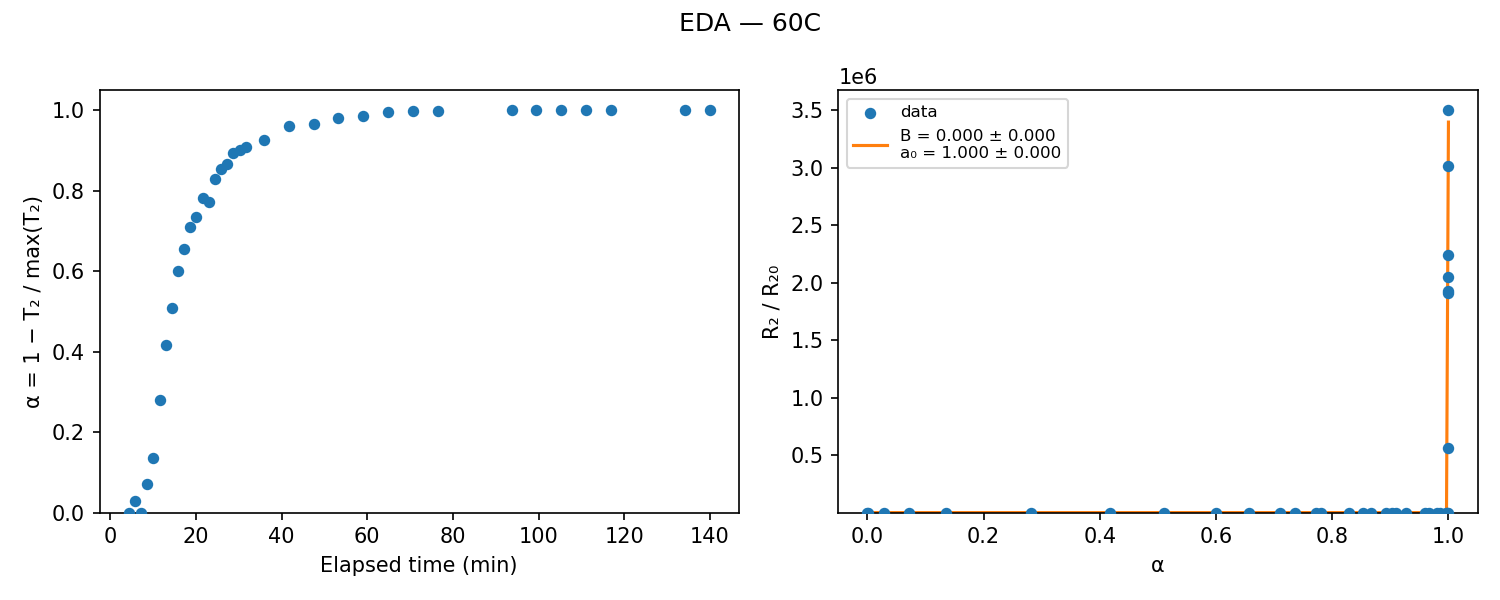
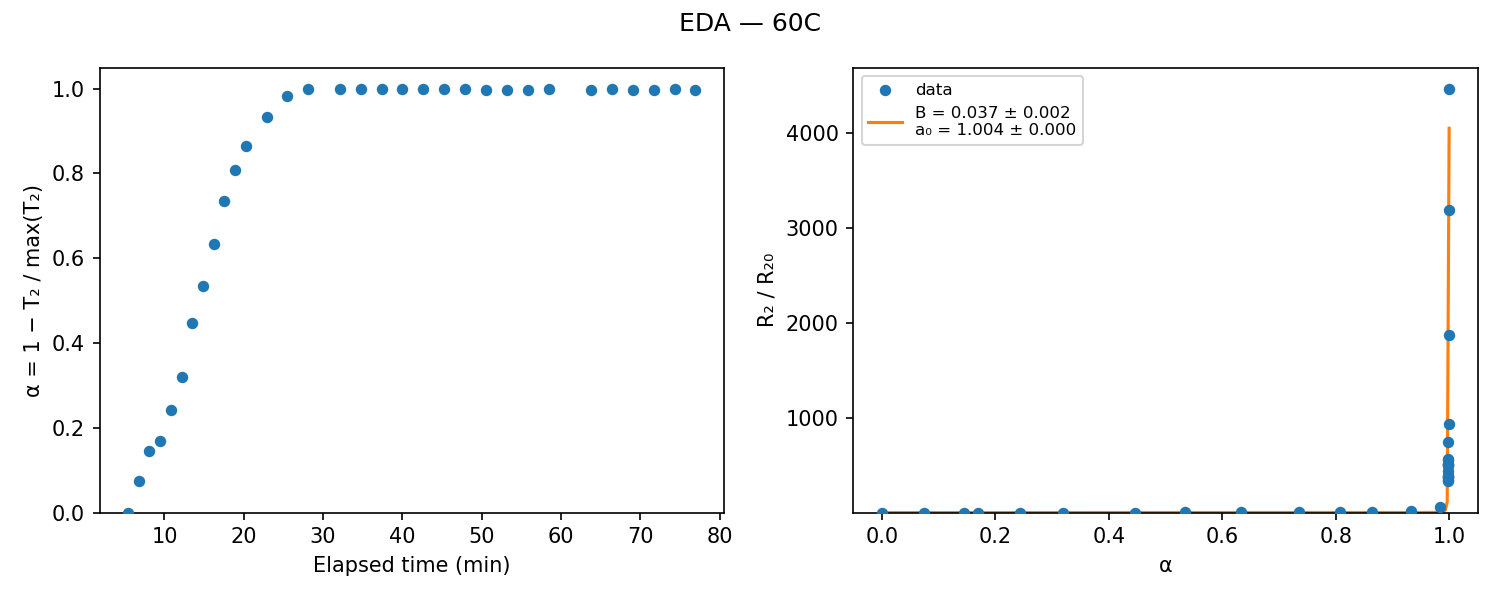
Add DGEBA/DAP and DGEBA/DAB 60C NMR datasets; replace EDA/60C run
DAP_60C and DAB_60C register via the same EXPERIMENTS_60C mechanism
added for EDA_60C. EDA_60C's data is replaced: the original run
("debugger") was superseded by a later repeat ("debugger4"); two
intermediate attempts ("debugger2", "debugger3") were confirmed
throwaway and excluded entirely. All three 60C fits now converge to
non-degenerate Corezzi parameters (a0 ~1.001-1.009), consistent with
the existing a0-decreases-with-temperature trend.

Verified via git diff that no 25/33/40C rows changed.

diff --git a/cpmg_batch_fit.py b/cpmg_batch_fit.py
@@ -49,9 +49,11 @@ DAP2_EXPERIMENTS = {
 
 # 60C: new temperature, one zip per sample (raw data not yet bundled like 25/33/40C)
 EXPERIMENTS_60C = {
-    "EDA": {"zip": ZIP_ROOT / "DGEBA_EDA_60.zip", "prefix": "debugger"},
-    # "DAP": {"zip": ZIP_ROOT / "DGEBA_DAP_60.zip", "prefix": "debugger"},
-    # "DAB": {"zip": ZIP_ROOT / "DGEBA_DAB_60.zip", "prefix": "debugger"},
+    # EDA's first attempt ("debugger") was superseded by a repeat run
+    # ("debugger4") -- see README for why.
+    "EDA": {"zip": ZIP_ROOT / "DGEBA_EDA_60.zip", "prefix": "debugger4"},
+    "DAP": {"zip": ZIP_ROOT / "DGEBA_DAP_60.zip", "prefix": "debugger"},
+    "DAB": {"zip": ZIP_ROOT / "DGEBA_DAB_60.zip", "prefix": "debugger"},
 }
 
 

diff --git a/pub_figs/cpmg_fit.py b/pub_figs/cpmg_fit.py
@@ -46,9 +46,11 @@ DAP2_EXPERIMENTS = {
 
 # 60C: new temperature, one zip per sample (mirrors cpmg_batch_fit.py)
 EXPERIMENTS_60C = {
-    "EDA": {"zip": _ZIP_ROOT / "DGEBA_EDA_60.zip", "prefix": "debugger"},
-    # "DAP": {"zip": _ZIP_ROOT / "DGEBA_DAP_60.zip", "prefix": "debugger"},
-    # "DAB": {"zip": _ZIP_ROOT / "DGEBA_DAB_60.zip", "prefix": "debugger"},
+    # EDA's first attempt ("debugger") was superseded by a repeat run
+    # ("debugger4") -- see README for why.
+    "EDA": {"zip": _ZIP_ROOT / "DGEBA_EDA_60.zip", "prefix": "debugger4"},
+    "DAP": {"zip": _ZIP_ROOT / "DGEBA_DAP_60.zip", "prefix": "debugger"},
+    "DAB": {"zip": _ZIP_ROOT / "DGEBA_DAB_60.zip", "prefix": "debugger"},
 }
 
 
